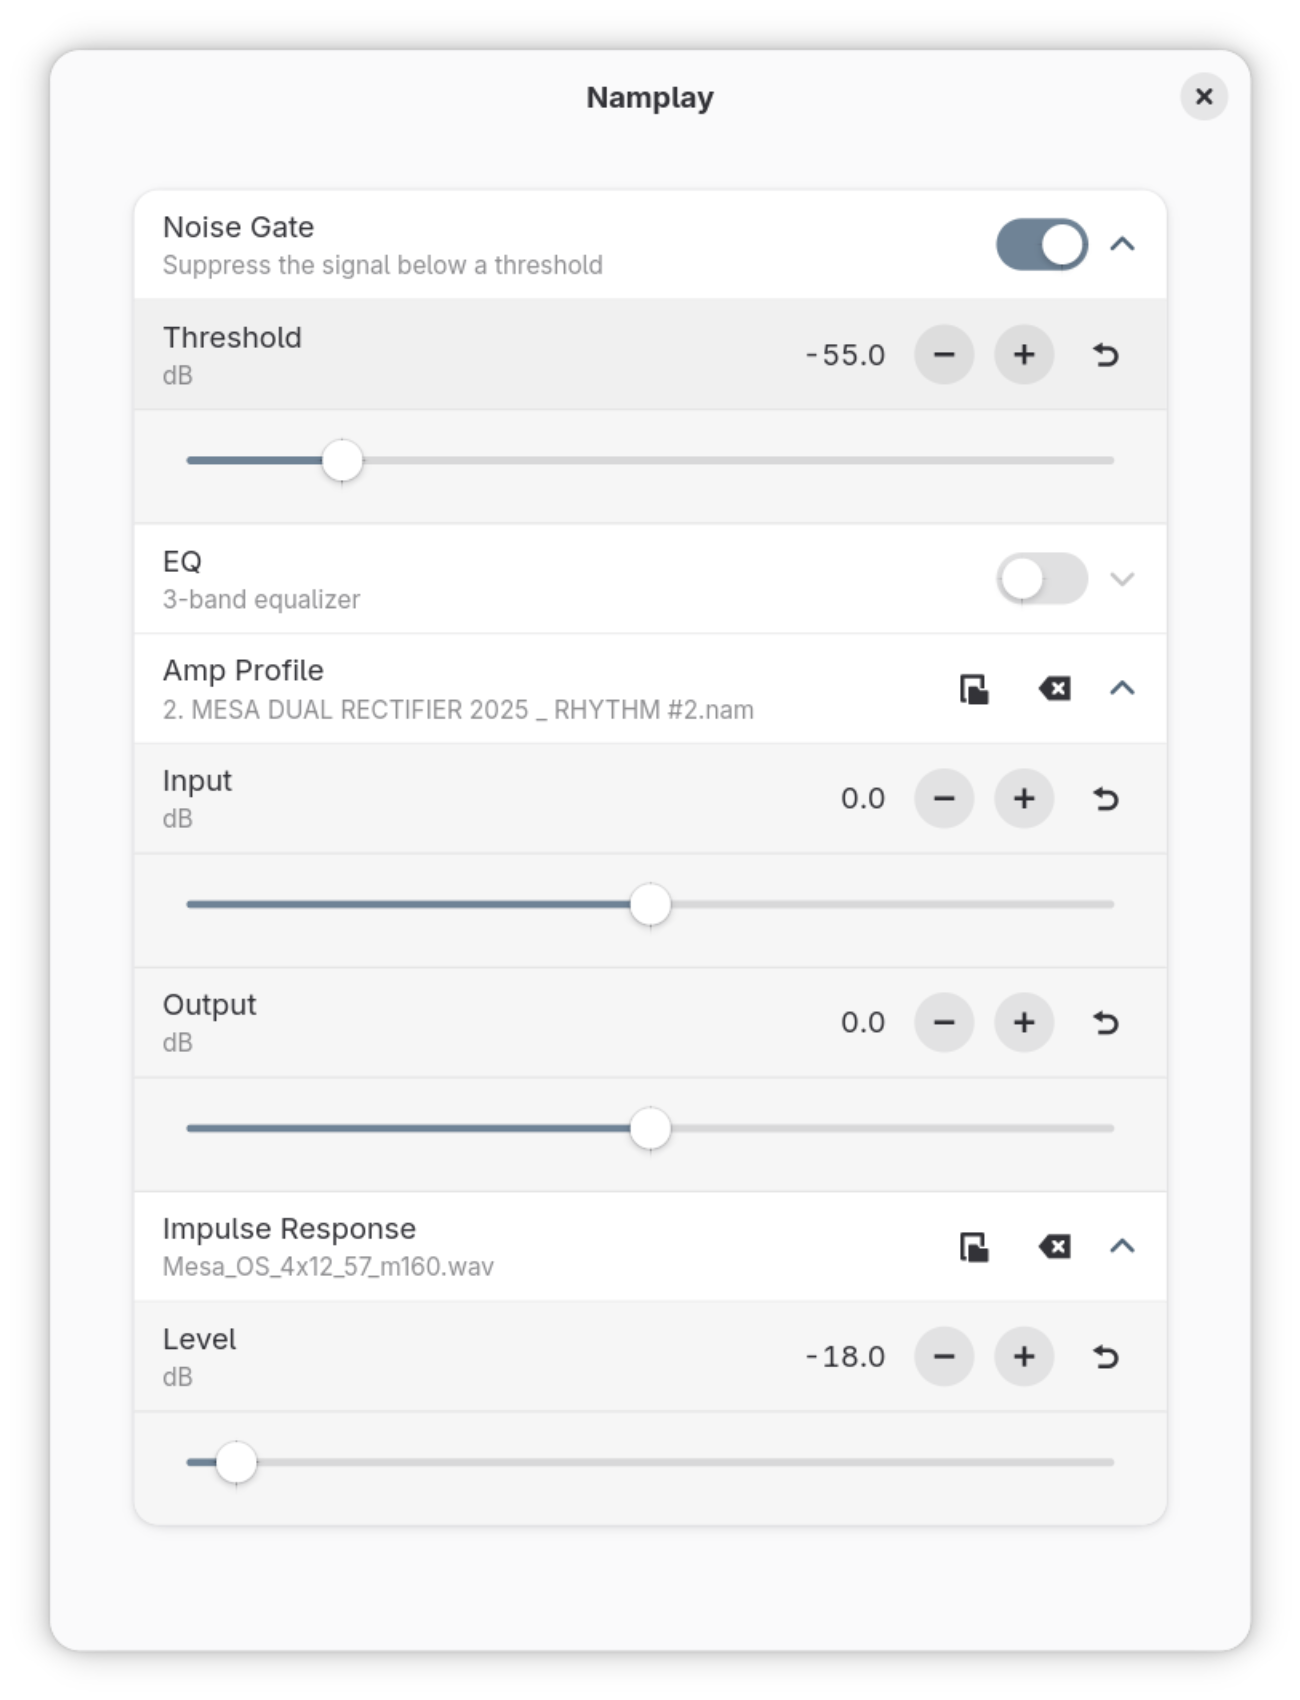
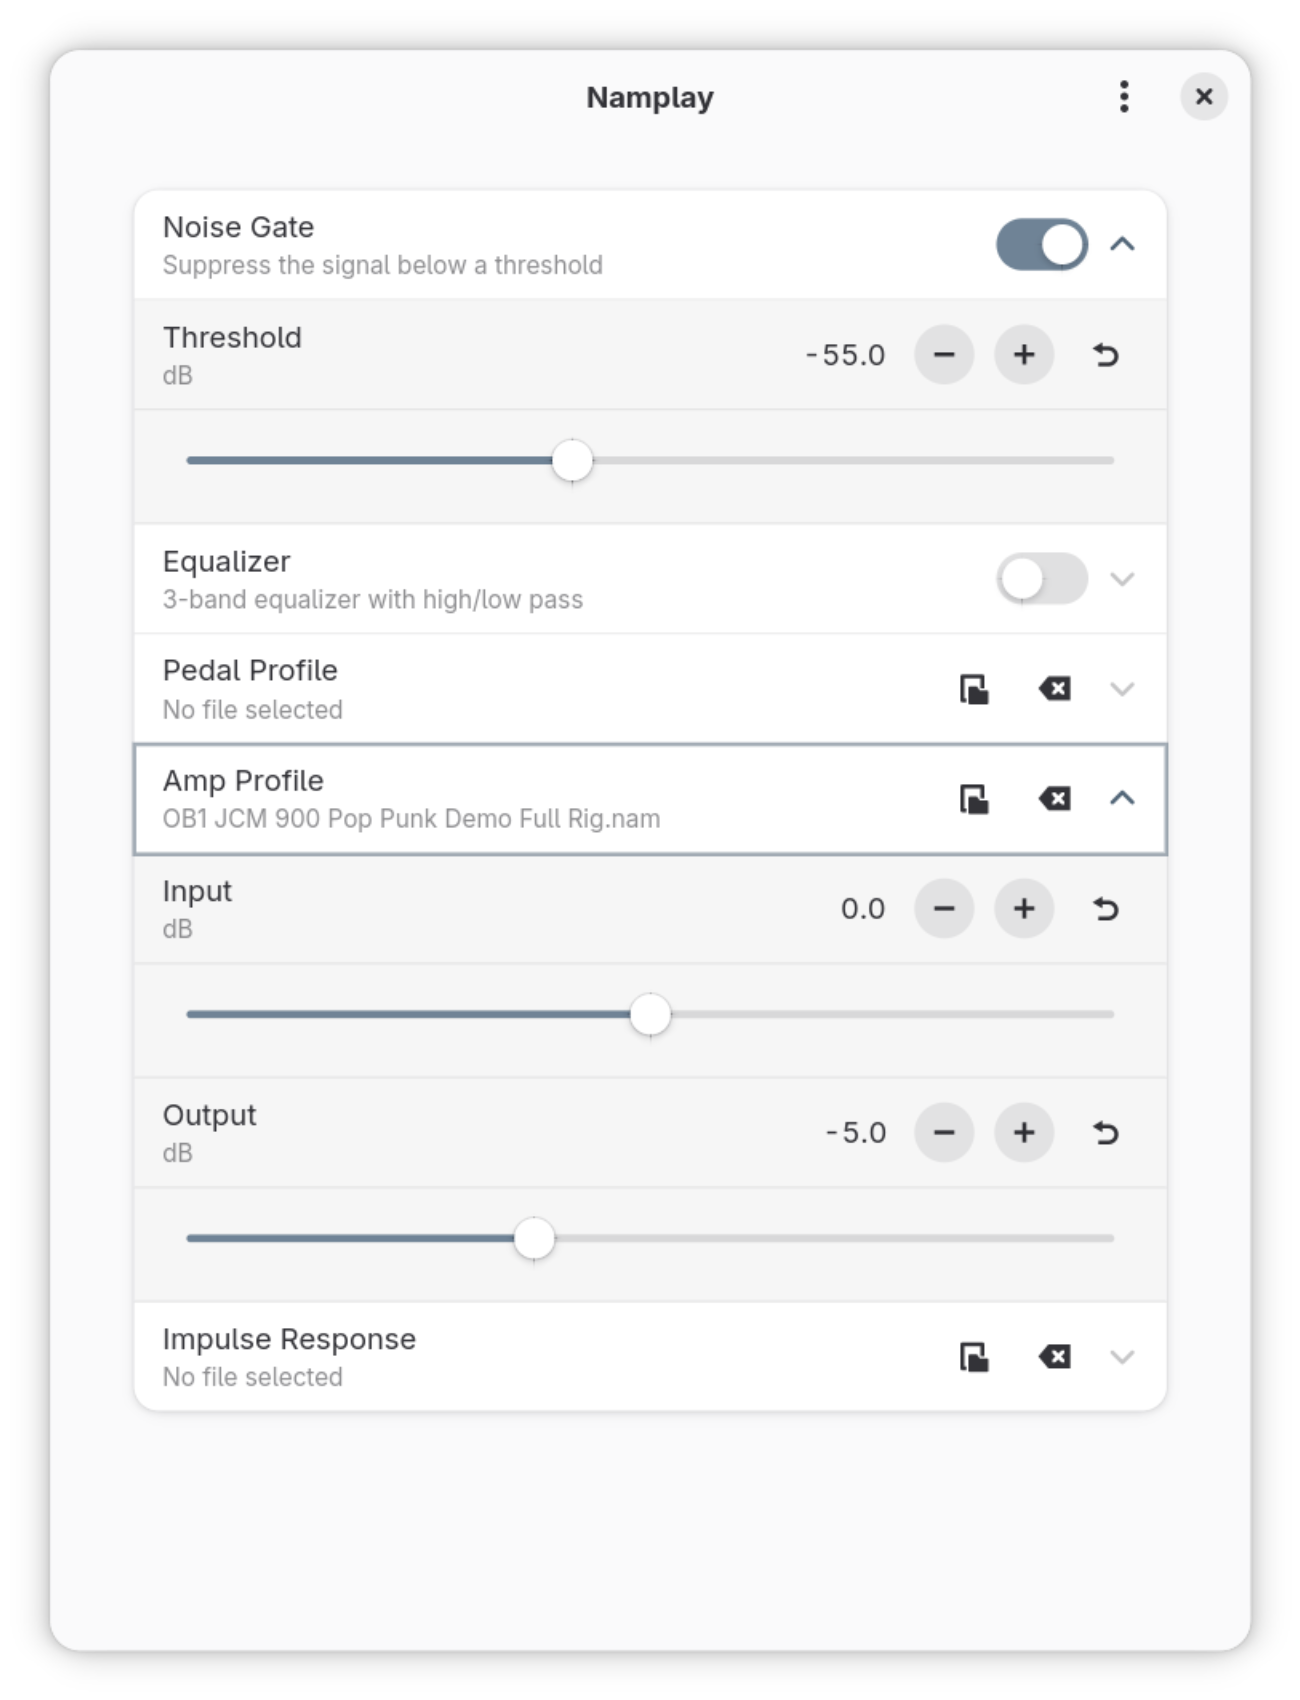
Update screenshot and readme

diff --git a/README.md b/README.md
@@ -1,6 +1,6 @@
 # Namplay
 
-A very minimal GTK4/Libadwaita app for running [Neural Amp Modeler](https://github.com/sdatkinson/neural-amp-modeler) profiles via PipeWire (JACK).
+GTK4/Libadwaita app for GNOME desktop to run [Neural Amp Modeler](https://github.com/sdatkinson/neural-amp-modeler) profiles via PipeWire (JACK).
 
 ![Screenshot](assets/screenshot.png)
 
@@ -8,6 +8,6 @@ A very minimal GTK4/Libadwaita app for running [Neural Amp Modeler](https://gith
 
 [MIT](LICENSE)
 
-### AI Transparency & Attributions
+## AI Transparency & Attributions
 
-This project is **vibe-coded** for personal use with the assistance of Claude. It was inspired by https://github.com/brummer10/NeuralRack and became possible thanks to https://github.com/OpenSauce/nam-rs library. The app icon was made by [Freepik](https://www.flaticon.com/authors/freepik) from [Flaticon](https://www.flaticon.com/).
+This project is **vibe-coded** for my personal use with the assistance of Claude. It was inspired by https://github.com/brummer10/NeuralRack and became possible thanks to https://github.com/OpenSauce/nam-rs library. The app icon was made by [Freepik](https://www.flaticon.com/authors/freepik) from [Flaticon](https://www.flaticon.com/).